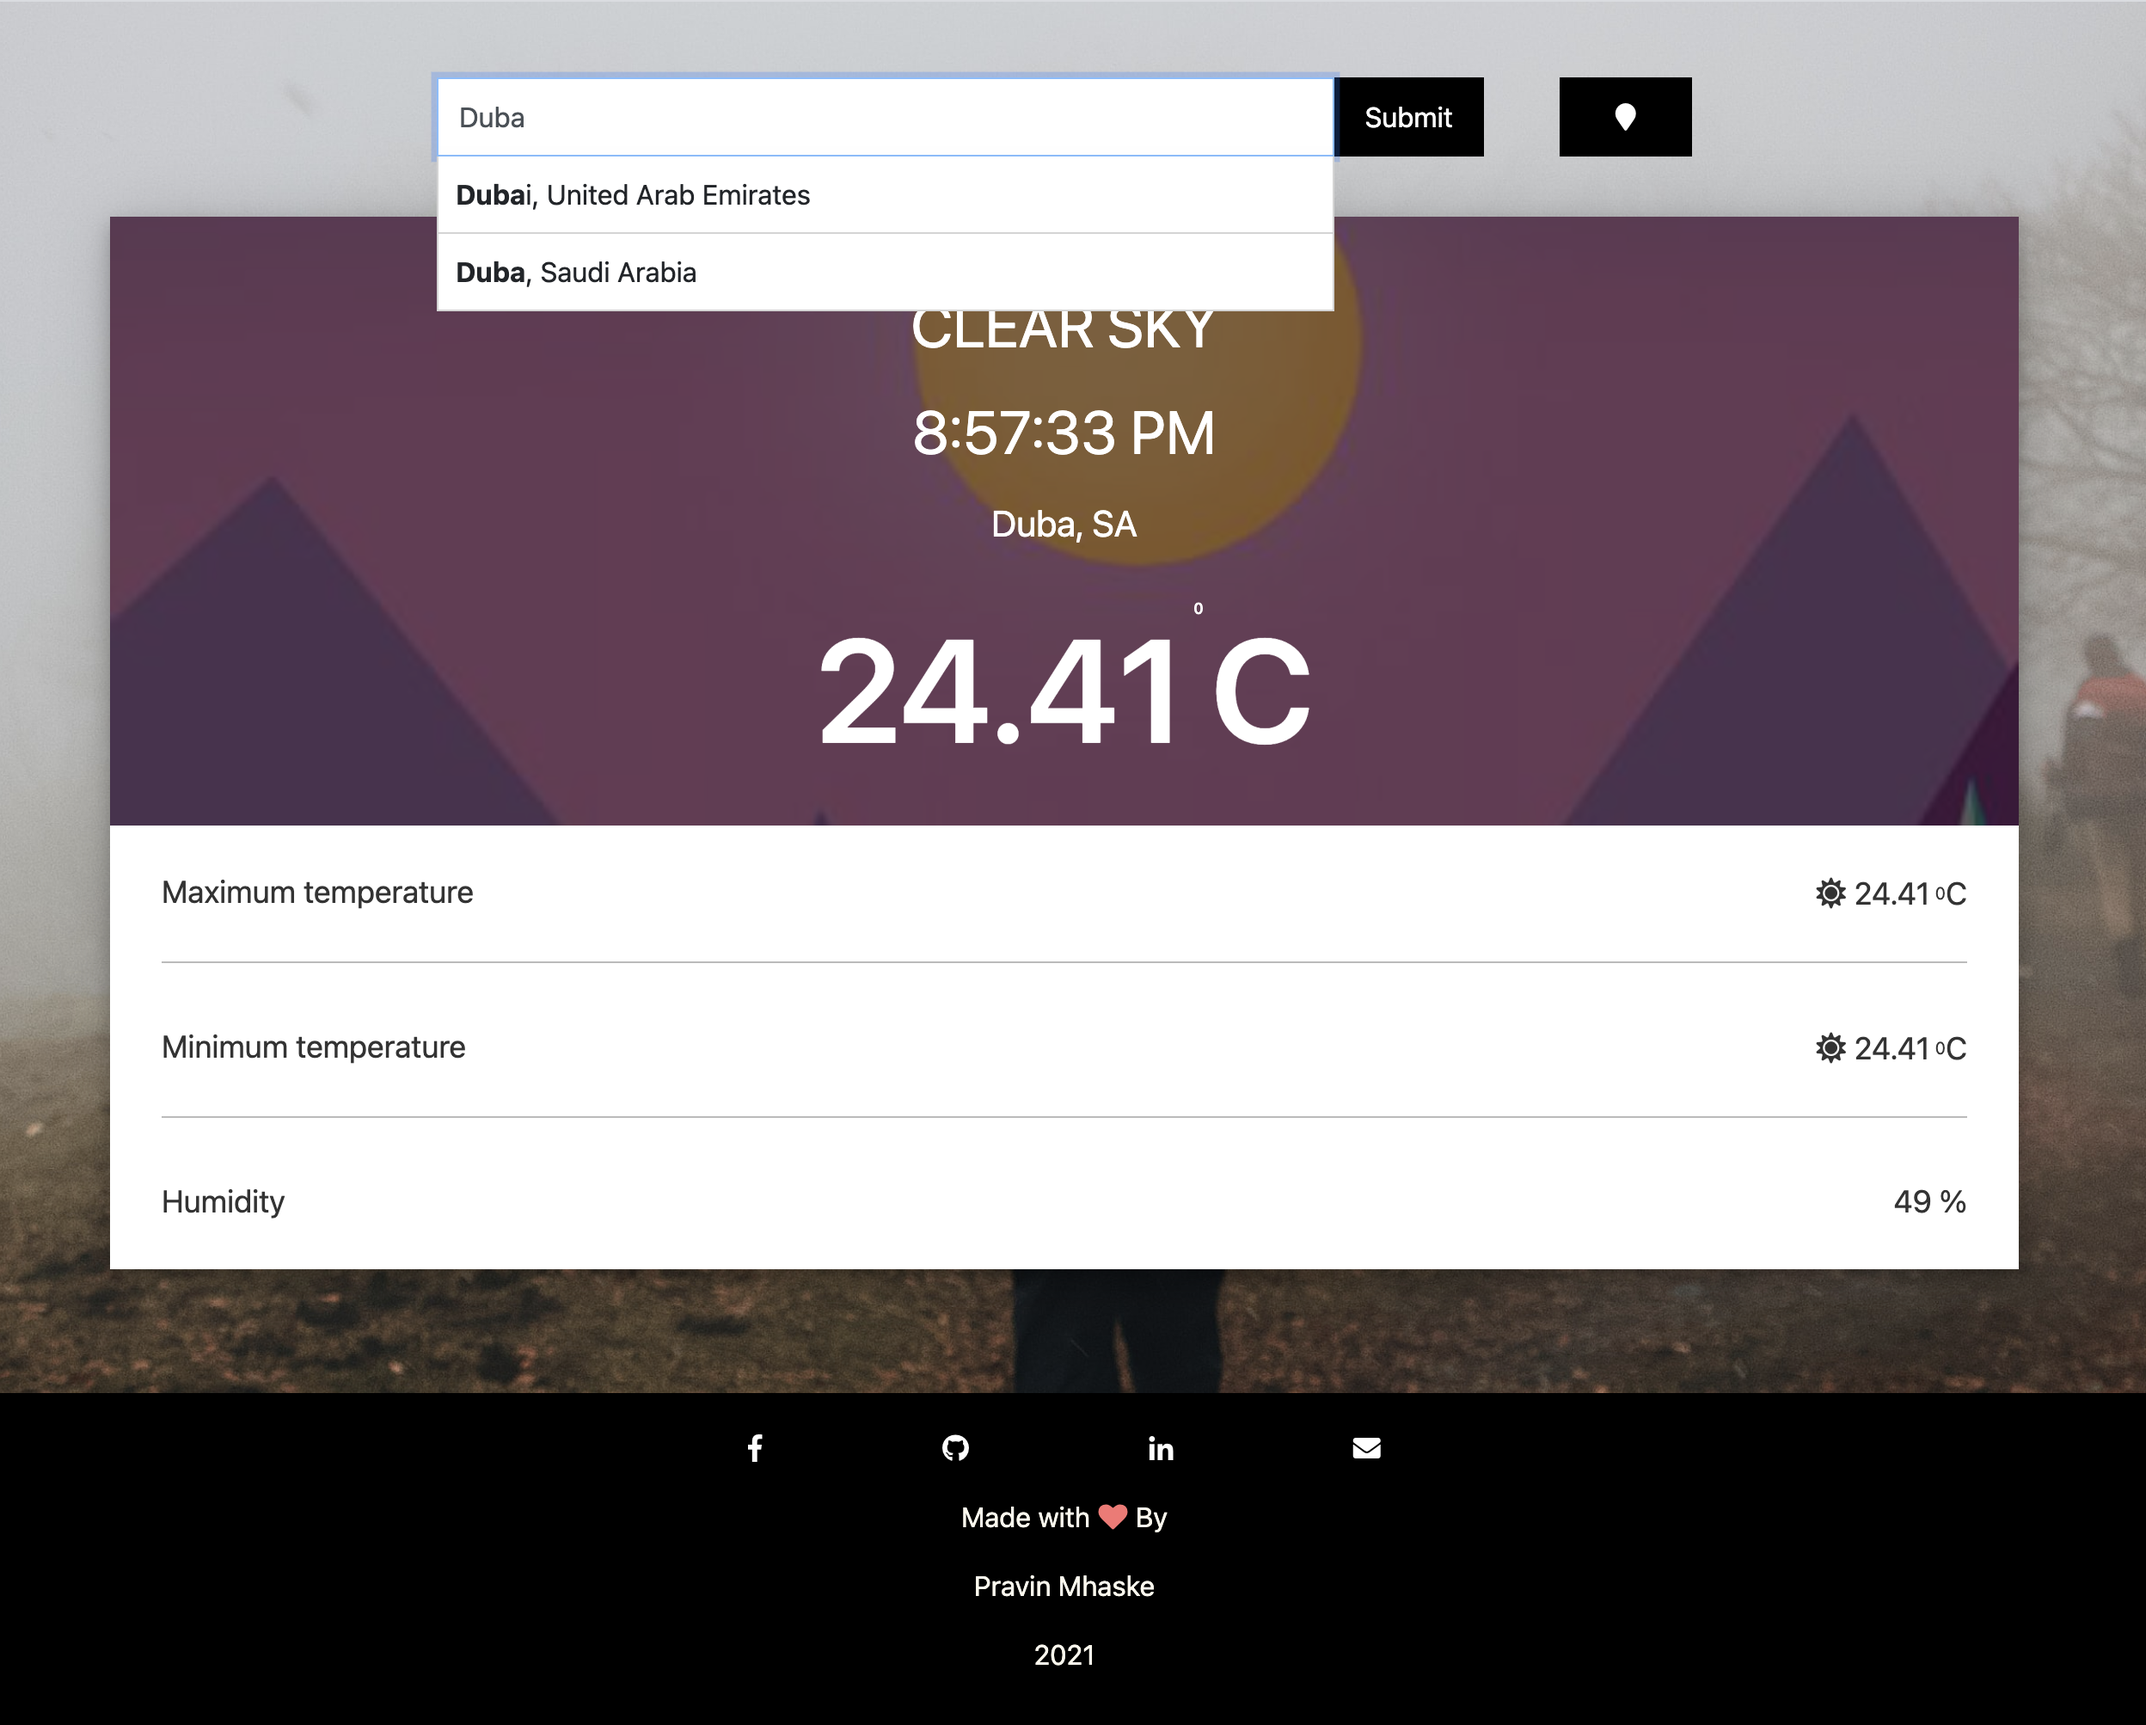
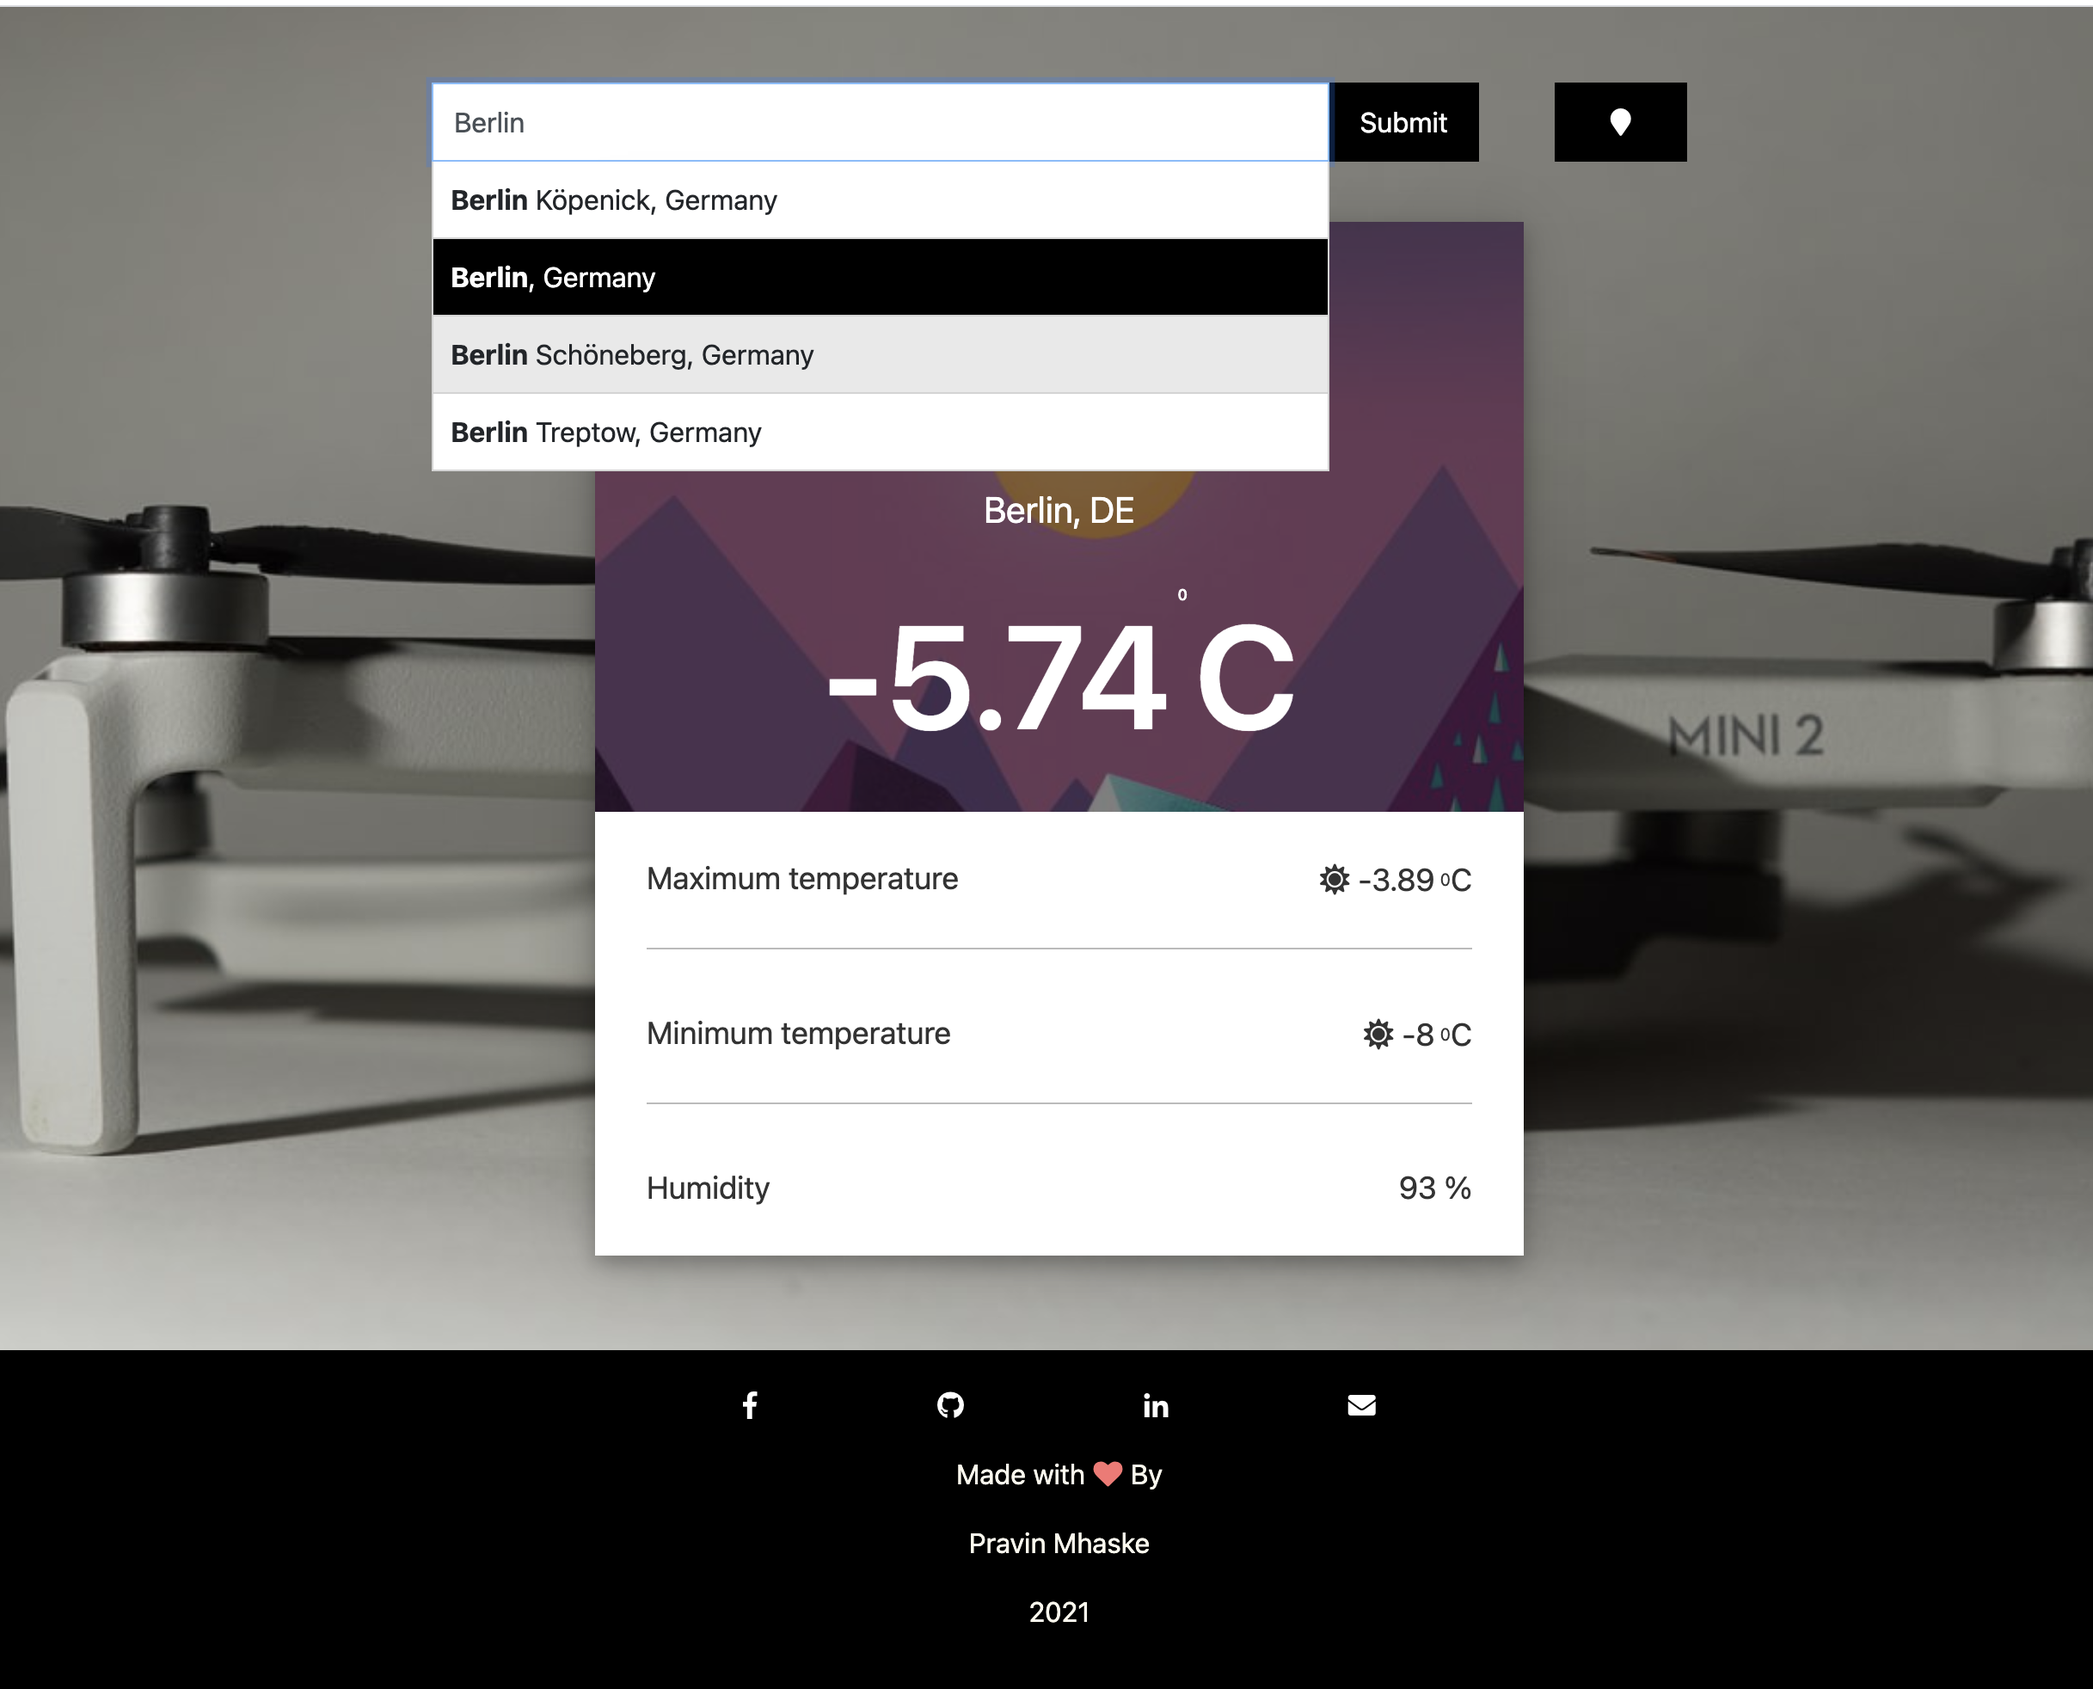
changes for background image

diff --git a/public/js/main.js b/public/js/main.js
@@ -108,9 +108,13 @@
    */
   const setWeatherCardValues = res => {
     let { temp, temp_max, temp_min, humidity } = res.main;
-    // document.getElementById("weather-condition").innerHTML = res.weather[0].main;
-    document.getElementById("weather-condition").innerHTML = (res.weather[0].description).toUpperCase();
-    document.getElementById("location_name").innerHTML = res['name'] + ", " + res['sys']['country'];
+    const { description } = res.weather[0];
+    const { name } = res;
+
+    document.body.style.backgroundImage =
+      "url('https://source.unsplash.com/1600x900/?" + name + "')";
+    document.getElementById("weather-condition").innerHTML = description;
+    document.getElementById("location_name").innerHTML = name + ", " + res['sys']['country'];
     document.getElementById("location_temp").innerHTML = temp;
     document.getElementById("location_temp_max").innerHTML = temp_max;
     document.getElementById("location_temp_min").innerHTML = temp_min;

diff --git a/public/css/style.css b/public/css/style.css
@@ -48,7 +48,8 @@ body, html {
     color: rgba(255, 252, 240, 0.99);
     margin-top: 20px;
     padding-top: 20px;
-    padding-bottom: 20px; }
+    padding-bottom: 20px;
+    flex: 1; }
   body .is-custom-icon-heart, html .is-custom-icon-heart {
     color: rgba(255, 116, 115, 0.99); }
   body .is-custom-footer-link, html .is-custom-footer-link {
@@ -239,6 +240,8 @@ body, html {
           border-top: 1px solid #bbb; }
         body .weather-card .bottom .wrapper .forecast li.active, html .weather-card .bottom .wrapper .forecast li.active {
           color: rgba(0, 0, 0, 0.8); }
+    body .weather-card #weather-condition, html .weather-card #weather-condition {
+      text-transform: capitalize; }
   body .weather-card.rain .top, html .weather-card.rain .top {
     background: url("http://img.freepik.com/free-vector/girl-with-umbrella_1325-5.jpg?size=338&ext=jpg") no-repeat;
     background-size: cover;

diff --git a/public/index.html b/public/index.html
@@ -43,7 +43,8 @@
       <div class="row">
 
         <!-- Users Location Weather Data -->
-        <div class="col-md-12">
+        <div class="col-md-3"></div>
+        <div class="col-md-6">
 
           <div class="weather-card one">
             <div class="top">
@@ -104,6 +105,7 @@
           </div>
 
         </div>
+        <div class="col-md-3"></div>
       </div>
     </div>
 
@@ -112,7 +114,6 @@
   </div>
   <!-- Footer -->
 
-  <span class="footer_push"></span>
   <footer class="footer is-custom-footer">
     <div class="text-center">
       <div class="content">

diff --git a/public/scss/style.scss b/public/scss/style.scss
@@ -63,6 +63,7 @@ body,html {
 		margin-top: 20px;
 		padding-top: 20px;
 		padding-bottom: 20px;
+		flex:1;
 	}
 	.is-custom-icon-heart {
 		color: rgba(255, 116, 115, .99);
@@ -309,6 +310,9 @@ body,html {
 					}
 				}
 			}
+		}
+		#weather-condition{
+			text-transform: capitalize;
 		}
 	}
 	.weather-card.rain {
